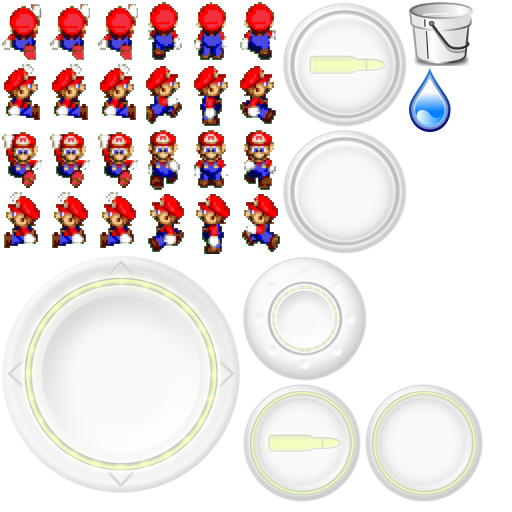
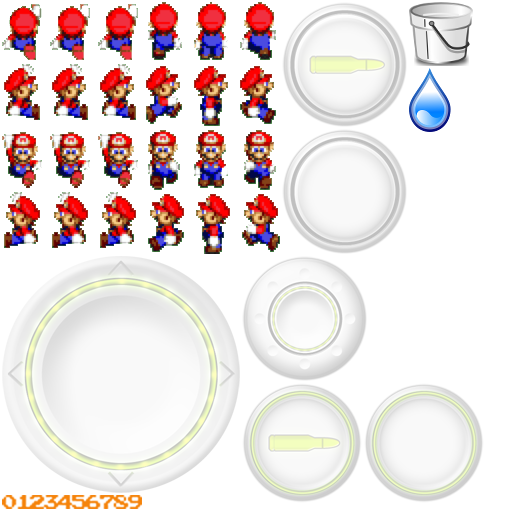
UI component and HUD component

Changed region(s): [[0.0, 0.9688, 0.2812, 1.0]]

diff --git a/src/com/mapdigit/game/tutorial/drop/hud/Score.java b/src/com/mapdigit/game/tutorial/drop/hud/Score.java
@@ -1,0 +1,66 @@
+package com.mapdigit.game.tutorial.drop.hud;
+
+import com.guidebee.game.graphics.Texture;
+import com.guidebee.game.graphics.TextureAtlas;
+import com.guidebee.game.graphics.TextureRegion;
+import com.guidebee.game.ui.HorizontalGroup;
+import com.guidebee.game.ui.Image;
+import com.guidebee.game.ui.Label;
+import com.guidebee.game.ui.Table;
+import com.guidebee.game.ui.drawable.TextureRegionDrawable;
+
+import static com.guidebee.game.GameEngine.assetManager;
+
+
+public class Score extends Table{
+
+    private final Image goldCoin;
+    private final Image thousands;
+    private final Image hundreds;
+    private final Image tens;
+    private final Image units;
+
+
+    private final TextureRegionDrawable [] numberDrawables;
+
+
+    public Score(){
+        TextureAtlas textureAtlas=assetManager.get("raindrop.atlas",TextureAtlas.class);
+        goldCoin=new Image(assetManager.get("coin.png", Texture.class));
+        TextureRegion numbers=textureAtlas.findRegion("numbers");
+        numberDrawables=new TextureRegionDrawable[11];
+        for(int i=0;i<10;i++){
+            numberDrawables[i] =new TextureRegionDrawable(new TextureRegion(numbers,i*14,0,14,14));
+        }
+        thousands=new Image(numberDrawables[0]);
+        hundreds =new Image(numberDrawables[0]);
+        tens=new Image(numberDrawables[0]);
+        units=new Image(numberDrawables[0]);
+        HorizontalGroup space=new HorizontalGroup();
+        space.padLeft(10);
+
+        add(goldCoin);
+        add(space);
+        add(thousands);
+        add(hundreds);
+        add(tens);
+        add(units);
+        setSize(200, 40);
+        setPosition(600, 430);
+    }
+
+
+    public void setScore(int score){
+        int newScore= score % 10000;
+        int thousandsNum = newScore / 1000;
+
+        int hundredsNum = (newScore % 1000) / 100;
+        int tensNum =(newScore % 100) /10;
+        int unitsNum = (newScore % 10);
+
+        thousands.setDrawable(numberDrawables[thousandsNum]);
+        hundreds.setDrawable(numberDrawables[hundredsNum]);
+        tens.setDrawable(numberDrawables[tensNum]);
+        units.setDrawable(numberDrawables[unitsNum]);
+    }
+}

diff --git a/src/com/guidebee/game/scene/Stage.java b/src/com/guidebee/game/scene/Stage.java
@@ -108,7 +108,6 @@ public class Stage extends InputAdapter implements Disposable {
 
 
     private final Stack stack =new Stack();
-    private final Table table = new Table();
     private final Table tableGameControl = new Table();
 
     private class ContactMonitor implements ContactListener {
@@ -215,17 +214,14 @@ public class Stage extends InputAdapter implements Disposable {
      */
     public Stage(Viewport viewport, Batch batch) {
         internalStage = new InternalStage(viewport, batch,this);
-        internalStageHUD = new InternalStage(new ScalingViewport(Scaling.stretch, viewport.getScreenWidth(),
-                viewport.getScreenHeight(), new OrthographicCamera()), batch,null);
+        internalStageHUD = new InternalStage(viewport, batch,null);
         entityEngine = new EntityEngine();
         internalStage.setUserObject(this);
         entityEngine.setUserObject(this);
         stack.setFillParent(true);
         internalStageHUD.addActor(stack);
         tableGameControl.setFillParent(true);
-        table.setFillParent(true);
         stack.add(tableGameControl);
-        stack.add(table);
         tableGameControl.toFront();
 
     }
@@ -303,7 +299,7 @@ public class Stage extends InputAdapter implements Disposable {
      * @param widget
      */
     public void addHUDComponent(Widget widget){
-        table.addActor(widget);
+        internalStageHUD.addActor(widget);
     }
 
     /**
@@ -311,12 +307,9 @@ public class Stage extends InputAdapter implements Disposable {
      * @param widgetGroup
      */
     public void addHUDComponent(WidgetGroup widgetGroup){
-        table.addActor(widgetGroup);
+        internalStageHUD.addActor(widgetGroup);
     }
 
-    public Table getRootHUDContainer(){
-        return table;
-    }
 
     public void setScenery(Scenery scenery) {
         this.scenery = scenery;

diff --git a/src/com/mapdigit/game/tutorial/drop/DropScene.java b/src/com/mapdigit/game/tutorial/drop/DropScene.java
@@ -21,6 +21,7 @@ import com.mapdigit.game.tutorial.drop.actor.Mario;
 import com.mapdigit.game.tutorial.drop.actor.StaticArea;
 import com.mapdigit.game.tutorial.drop.actor.RainDropGroup;
 import com.mapdigit.game.tutorial.drop.director.CollisionDirector;
+import com.mapdigit.game.tutorial.drop.hud.Score;
 
 import static com.guidebee.game.GameEngine.assetManager;
 import static com.guidebee.game.GameEngine.graphics;
@@ -31,6 +32,8 @@ public class DropScene extends Scene  {
 
     private final Mario mario ;
     private final RainDropGroup rainDropGroup ;
+
+    private final Score score;
 
     private InputProcessor savedInputProcessor;
     private TiledMap background= assetManager.get("tiledmap/forest.tmx", TiledMap.class);
@@ -45,6 +48,7 @@ public class DropScene extends Scene  {
         sceneStage.initWorld();
         mario = new Mario();
         rainDropGroup = new RainDropGroup();
+        score =new Score();
 
         TextureAtlas textureAtlas=assetManager.get("raindrop.atlas",TextureAtlas.class);
 
@@ -81,8 +85,9 @@ public class DropScene extends Scene  {
         sceneStage.addActor(rainDropGroup);
 
         sceneStage.setScenery(scenery);
+        sceneStage.addHUDComponent(score);
 
-        sceneStage.setCollisionListener(new CollisionDirector());
+        sceneStage.setCollisionListener(new CollisionDirector(score));
         debugMatrix=new Matrix4(sceneStage.getCamera().combined);
         debugMatrix.scale(GameEngine.pixelToBox2DUnit, GameEngine.pixelToBox2DUnit, 0);
         StaticArea platform = new StaticArea();

diff --git a/src/com/mapdigit/game/tutorial/drop/director/CollisionDirector.java b/src/com/mapdigit/game/tutorial/drop/director/CollisionDirector.java
@@ -7,6 +7,7 @@ import com.guidebee.game.scene.collision.Collision;
 import com.guidebee.game.scene.collision.CollisionListener;
 import com.mapdigit.game.tutorial.drop.actor.Mario;
 import com.mapdigit.game.tutorial.drop.actor.RainDrop;
+import com.mapdigit.game.tutorial.drop.hud.Score;
 
 import static com.guidebee.game.GameEngine.assetManager;
 
@@ -14,6 +15,15 @@ import static com.guidebee.game.GameEngine.assetManager;
 public class CollisionDirector implements CollisionListener {
 
     private Sound dropSound=assetManager.get("drop.wav",Sound.class);
+
+    private int score =0;
+
+    private final Score scoreBoard;
+
+    public CollisionDirector(Score score){
+        scoreBoard=score;
+    }
+
 
     @Override
     public void collisionDetected(Collision collision) {
@@ -24,12 +34,16 @@ public class CollisionDirector implements CollisionListener {
             if(objectA instanceof Mario){
                 if(objectB instanceof RainDrop){
                     ((Actor)objectB).getParent().removeActor((Actor) objectB);
+                    score++;
                     dropSound.play();
+                    scoreBoard.setScore(score);
                 }
             }else if(objectA instanceof RainDrop){
                 if(objectB instanceof Mario){
                     ((Actor)objectA).getParent().removeActor((Actor) objectA);
                     dropSound.play();
+                    score++;
+                    scoreBoard.setScore(score);
                 }
             }
 

diff --git a/src/com/guidebee/game/ui/GameController.java b/src/com/guidebee/game/ui/GameController.java
@@ -122,7 +122,7 @@ public class GameController extends WidgetGroup {
     @Override
     public void layout() {
         float height = touchpad.getHeight();
-        float width = GameEngine.graphics.getWidth();
+        float width = getParent().getWidth();
         shootButton.setX(width - 2 * shootButton.getWidth());
         shootButton.setY(height / 2 - shootButton.getHeight() / 2);
         powerButton.setX(width - powerButton.getWidth());

diff --git a/src/com/mapdigit/game/tutorial/drop/actor/RainDrop.java b/src/com/mapdigit/game/tutorial/drop/actor/RainDrop.java
@@ -1,12 +1,7 @@
 package com.mapdigit.game.tutorial.drop.actor;
 
-import com.guidebee.game.GameEngine;
-import com.guidebee.game.graphics.Pixmap;
-import com.guidebee.game.graphics.SVGImage;
 import com.guidebee.game.graphics.Texture;
-import com.guidebee.game.graphics.TextureAtlas;
 import com.guidebee.game.scene.Actor;
-import com.guidebee.utils.Disposable;
 
 import static com.guidebee.game.GameEngine.assetManager;
 
